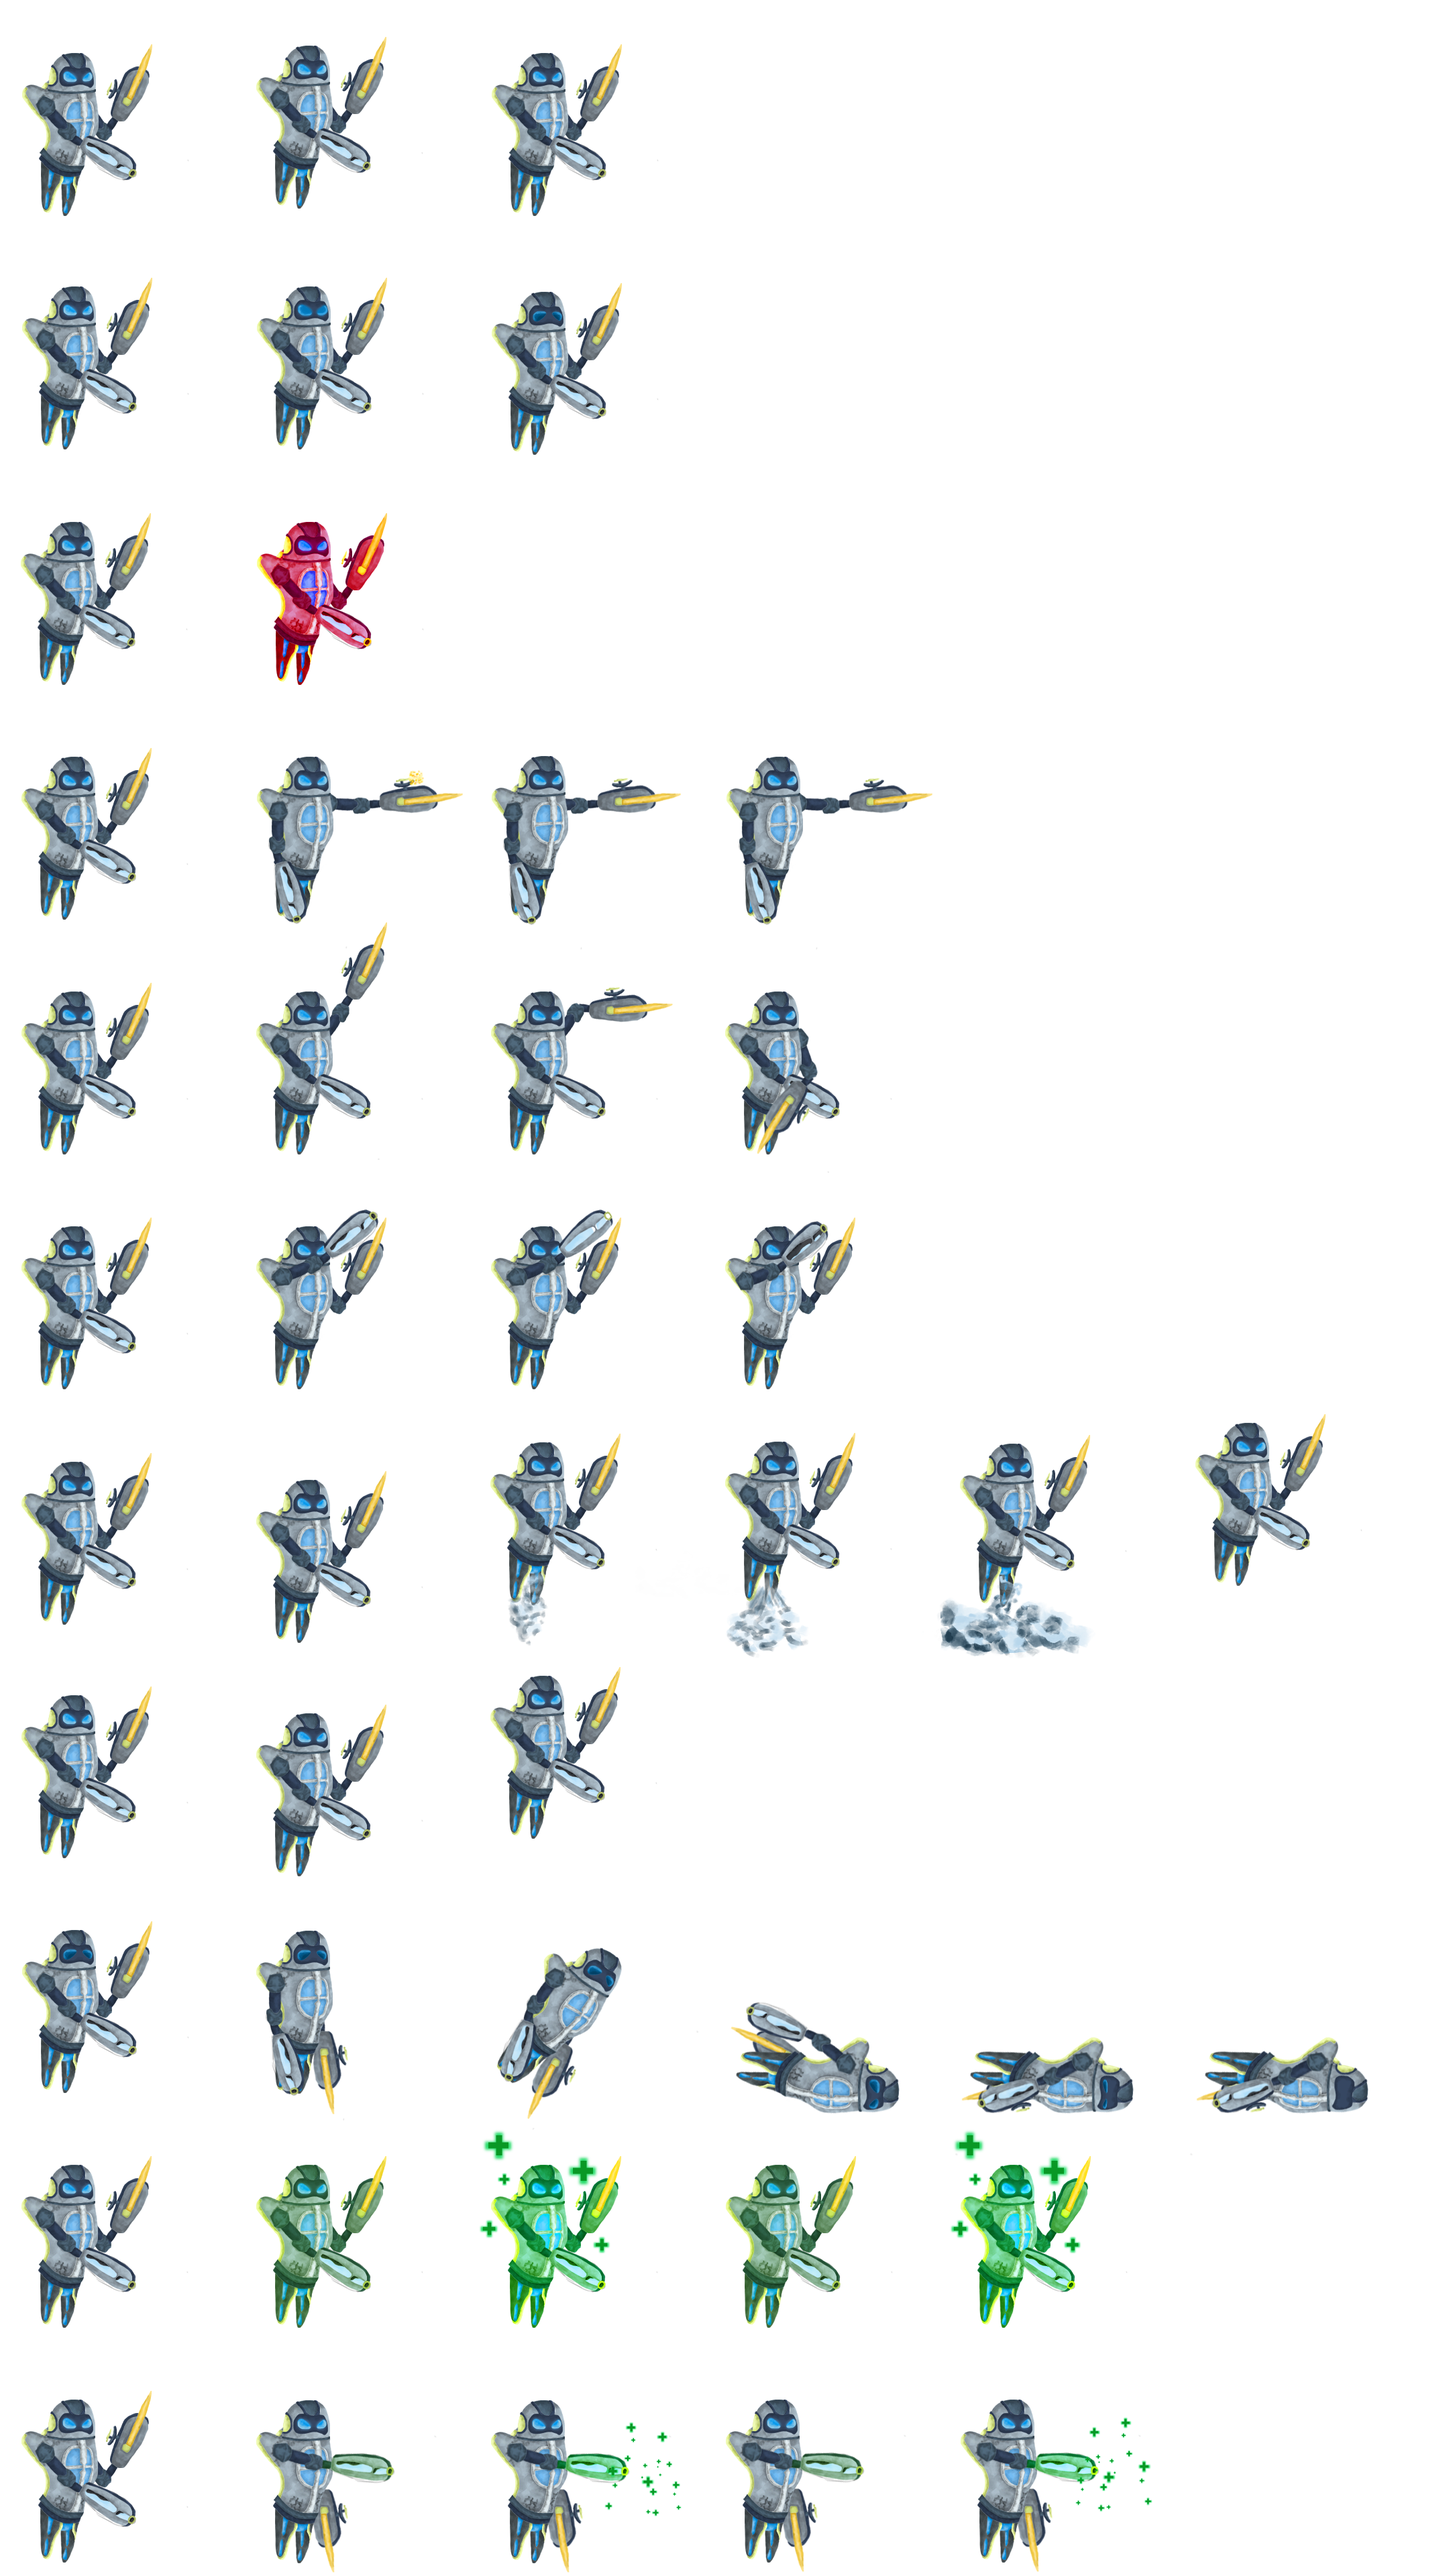
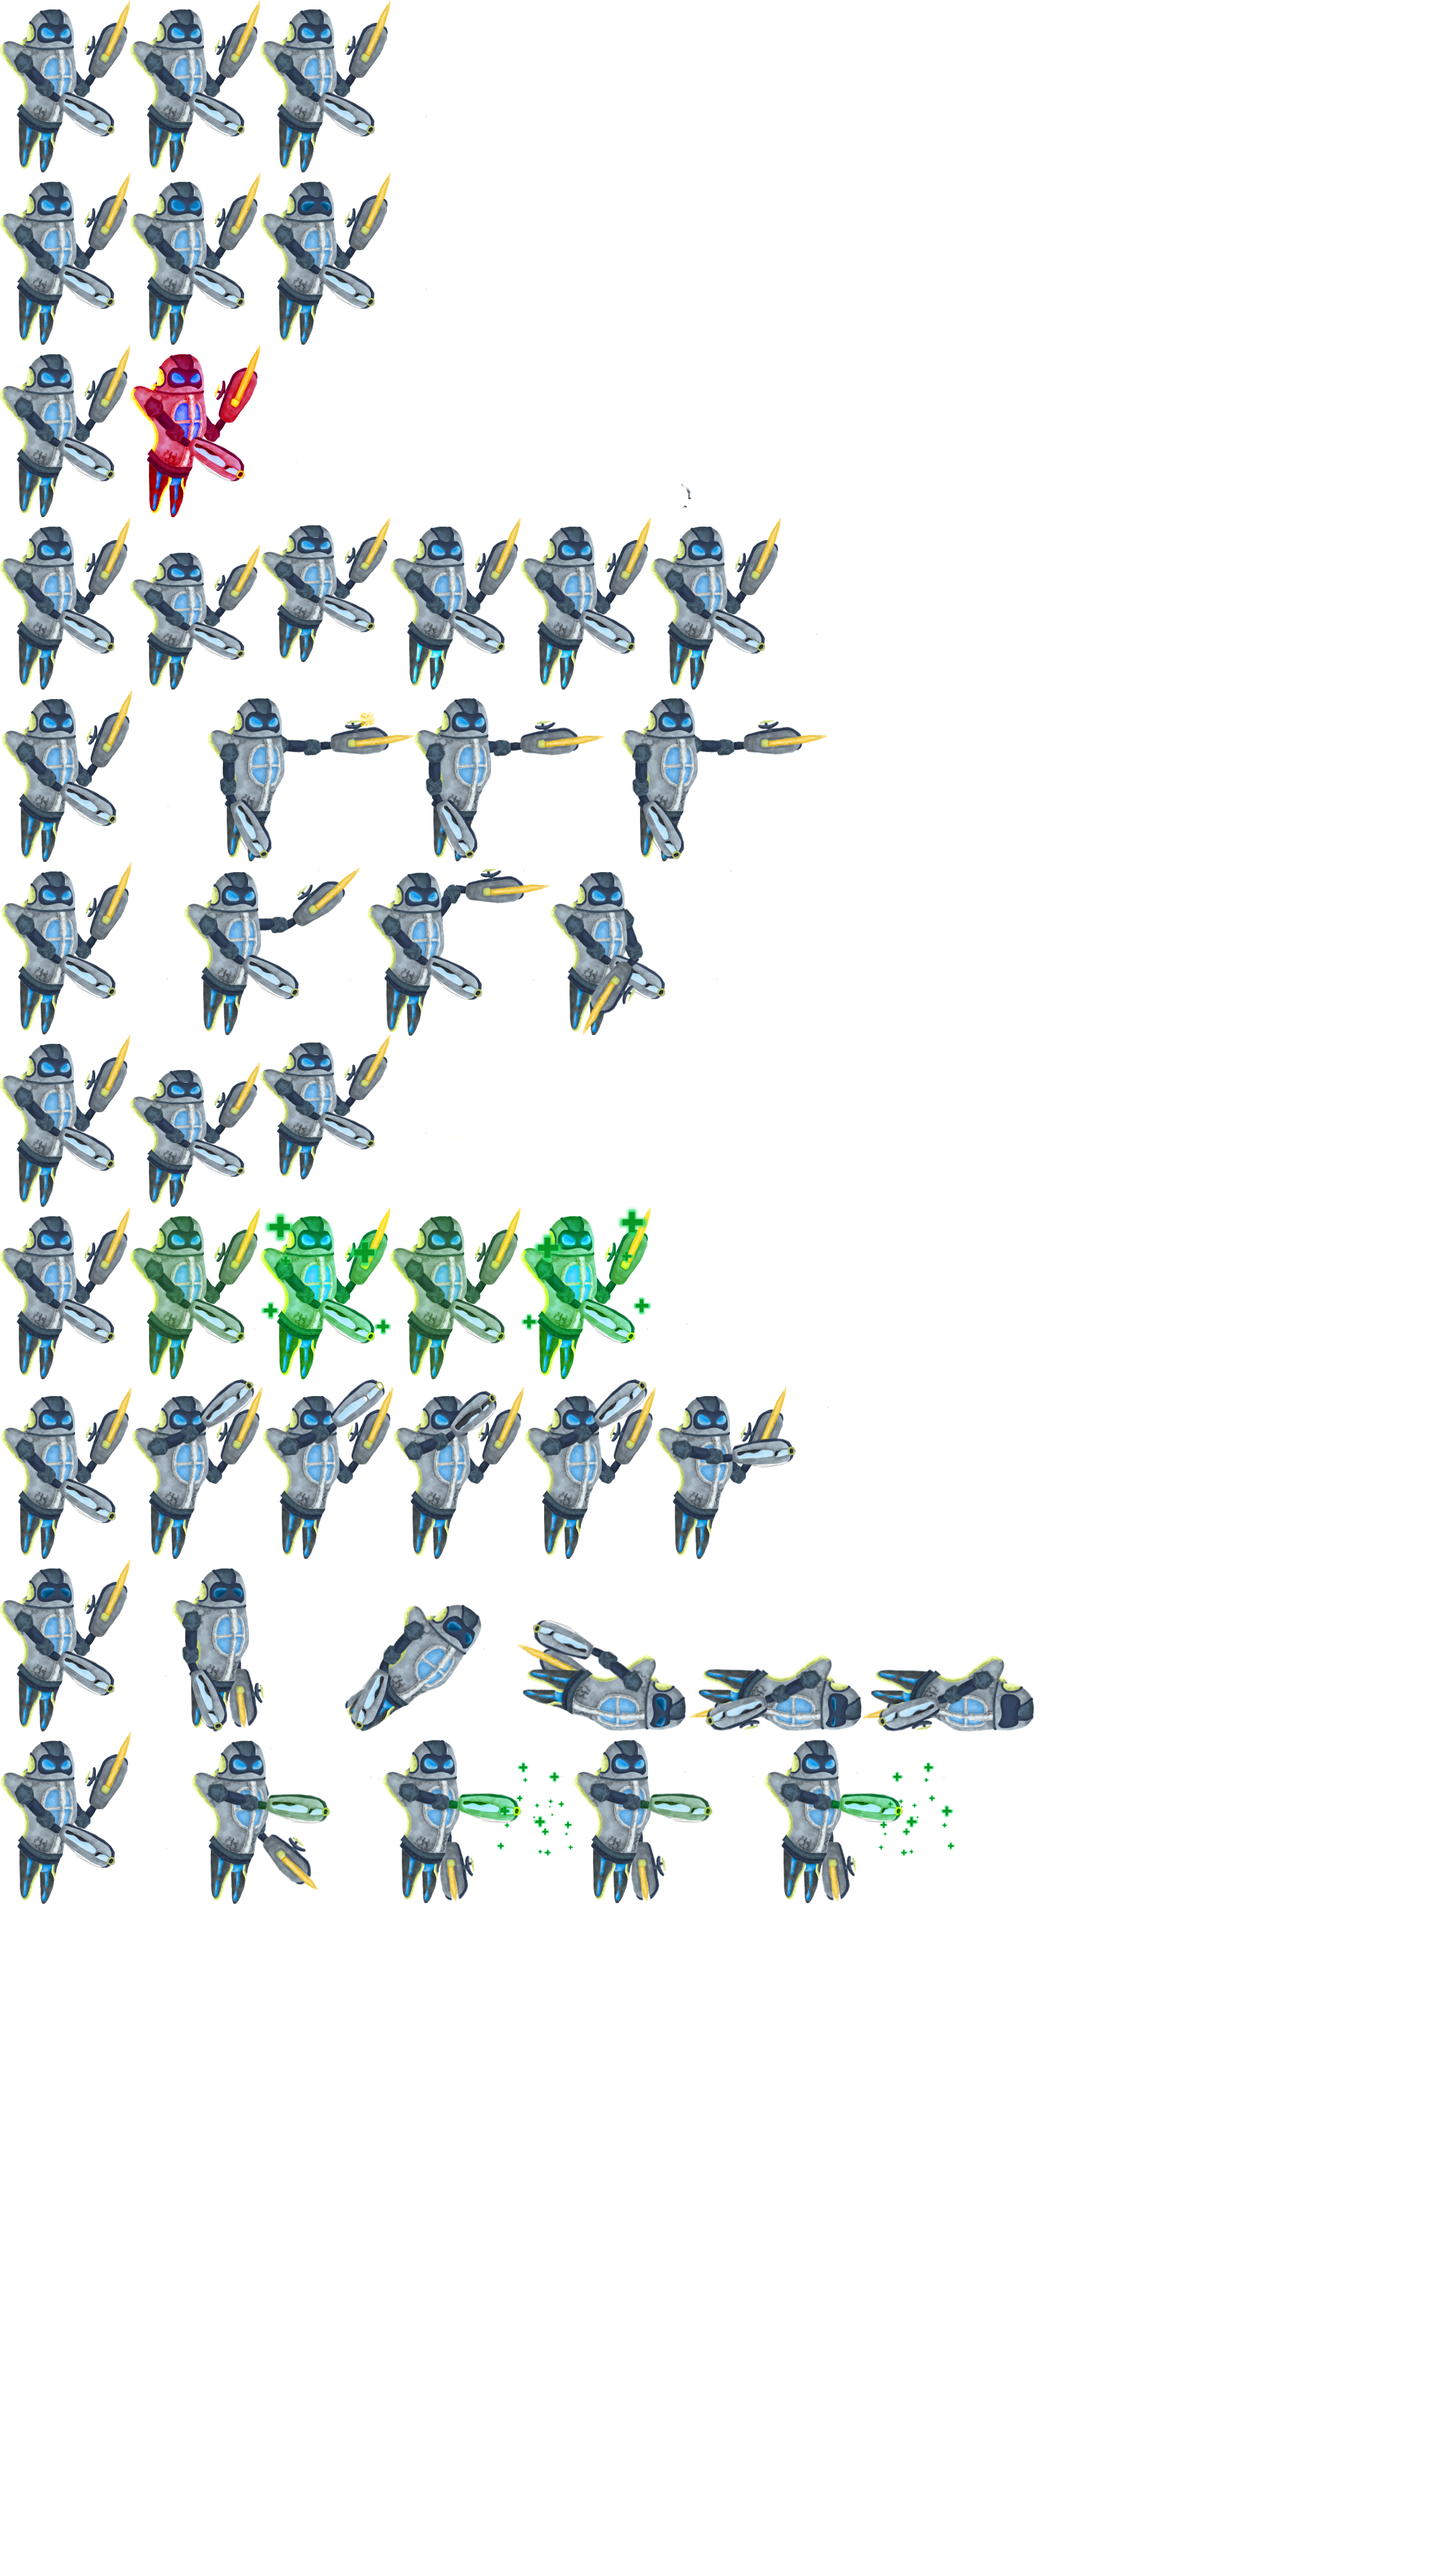
animations fix

diff --git a/src/entities/Player.cpp b/src/entities/Player.cpp
@@ -1,12 +1,12 @@
 #include "Player.hpp"
 
 Player::Player(sf::Texture& texture) : 
-	jumpAnimation(texture, 136, 188, 4, 0.5f),
-	walkToLeftAnimation(texture, 136, 188, 4, 0.2f), // ----------
-	walkToRightAnimation(texture, 136, 188, 4, 0.2f),
-	staticAnimation(texture, 136, 188, 1, 0.5f),
-	hangedToLefAnimation(texture, 256, 256, 1, 0.5f),
-	hangedToRightAnimation(texture, 256, 256, 1, 0.5f),
+	jumpAnimation(texture, 194, 256, 3, 0.5f),
+	walkToLeftAnimation(texture, 194, 256, 3, 0.2f), // ----------
+	walkToRightAnimation(texture, 194, 256, 3, 0.2f),
+	staticAnimation(texture, 194, 256, 1, 0.5f),
+	hangedToLefAnimation(texture, 194, 256, 3, 0.5f),
+	hangedToRightAnimation(texture, 194, 256, 3, 0.5f),
 
 	takeDamageAnimation(texture, 256, 256, 1, 0.5f),
 	deathAnimation(texture, 256, 256, 1, 0.5f),
@@ -15,7 +15,7 @@ Player::Player(sf::Texture& texture) :
 	rangedAttackAnimation(texture, 256, 256, 1, 0.5f),
 	repairAnimation(texture, 256, 256, 1, 0.5f),
 
-	smokeAnimation(Shared::smokeTexture, 350, 350, 3, 0.2f)
+	smokeAnimation(Shared::smokeTexture, 350, 350, 11, 0.1f)
 {
 	playerSprite.setPosition(sf::Vector2f(400, 0));
 	playerSprite.setTexture(texture);
@@ -74,11 +74,11 @@ void Player::update(const std::vector<unique_ptr<Tiles>>& tiles, sf::RenderWindo
 		if (!velocityX < 1 && !velocityX > -1) {
 			if (lastDepIsLeft) {
 				walkToLeftAnimation.update(deltaTime);
-				walkToLeftAnimation.applyToSprite(playerSprite, 1);
+				walkToLeftAnimation.applyToSprite(playerSprite, 0);
 			}
 			else {
 				walkToRightAnimation.update(deltaTime);
-				walkToRightAnimation.applyToSprite(playerSprite, 1);
+				walkToRightAnimation.applyToSprite(playerSprite, 0);
 			}
 		}
 		else {
@@ -88,7 +88,7 @@ void Player::update(const std::vector<unique_ptr<Tiles>>& tiles, sf::RenderWindo
 	}
 	else {
 		jumpAnimation.update(deltaTime);
-		jumpAnimation.applyToSprite(playerSprite, 1);
+		jumpAnimation.applyToSprite(playerSprite, 8);
 	}
 
 	collide(tiles);

diff --git a/src/systems/AssetLoader.cpp b/src/systems/AssetLoader.cpp
@@ -11,7 +11,7 @@ void Assets::loadAssetsFromFiles() {
 	if (!Shared::font.loadFromFile("assets/fonts/arial.ttf")) // FONT
 		std::cerr << "Chargement de la police impossible" << '\n';
 	
-	Shared::playerTexture.loadFromFile("assets/ennemies/ennemies.png"); //assets/player/player.png
+	Shared::playerTexture.loadFromFile("assets/player/player.png"); //assets/player/player.png
 	Shared::smokeTexture.loadFromFile("assets/player/smoke.png");
 	Shared::swordTexture.loadFromFile("assets/player/sword.jpg");
 	Shared::groundTexture.loadFromFile("assets/maps/tile test/bob.jpg");
